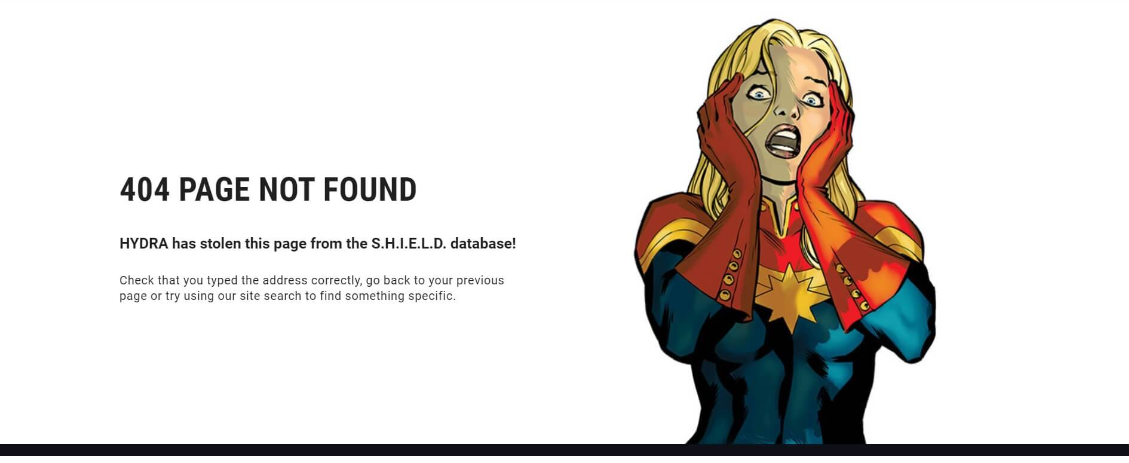
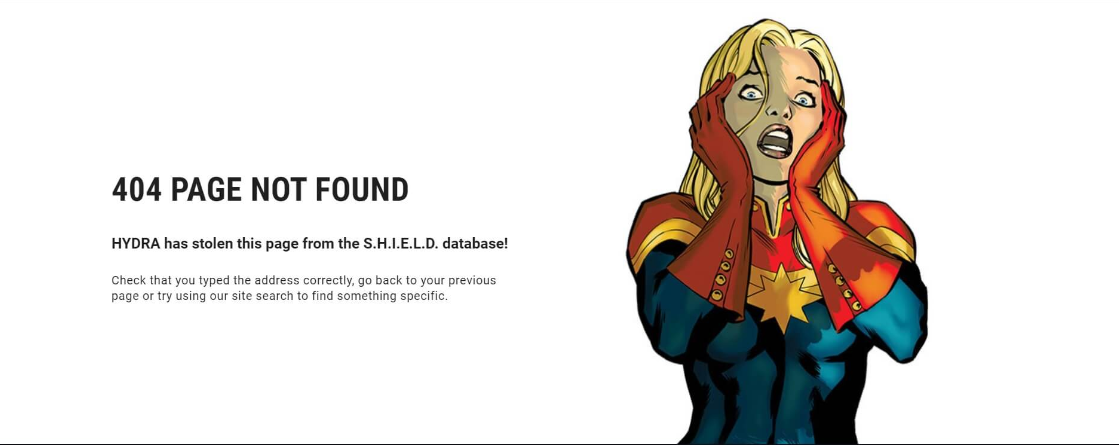
styling completed

Changed region(s): [[0.0, 0.0292, 1.0, 1.0], [0.0912, 0.4966, 0.4558, 0.6719], [0.0912, 0.3798, 0.3646, 0.4674]]

diff --git a/public/stylesheets/style.css b/public/stylesheets/style.css
@@ -23,7 +23,7 @@ html {
 
 body {
   color: #fefefe;
-  font-size: 1.1rem;
+  font-size: 1rem;
   letter-spacing: 1px;
   background-color: #151515;
   position: relative;
@@ -78,9 +78,14 @@ h1 {
   margin-bottom: 1rem;
 }
 h2 {
+  text-align: center;
   font-size: 2rem;
   letter-spacing: 2px;
   margin: 2rem 0;
+}
+
+h3 {
+  font-size: 1.2rem;
 }
 
 ul {
@@ -91,24 +96,65 @@ h1 {
   color: 15px;
 }
 .character-img {
-  height: 250px;
+  width: 300px;
+  border-radius: 10px;
 }
 
-#randomheroes {
+.character-img:hover {
+  transform: scale(1.1);
+  transition: all ease 500ms;
+}
+
+.listheroes {
   display: flex;
   flex-wrap: wrap;
   justify-content: space-between;
   padding-bottom: 2rem;
 }
 
+.superhero {
+  display: flex;
+  flex-direction: column;
+  flex-wrap: wrap;
+  flex-basis: 300px;
+  gap: 1rem;
+  margin-bottom: 2rem;
+}
+
 .input-height {
   padding: 0.4rem;
 }
 
-#searchBtn {
+#search-btn {
   background-color: #151515;
   color: #fefefe;
   font-weight: bold;
   padding: 0.4rem;
   border-radius: 5px;
+}
+
+.add-fav-btn,
+#delete-fav-btn,
+.form-btn {
+  background-color: #ec1d24;
+  color: #fefefe;
+  font-weight: bold;
+  padding: 0.4rem;
+  border-radius: 5px;
+}
+
+.red-entry {
+  color: red;
+  font-weight: bold;
+}
+
+.error-message {
+  font-size: 1.5rem;
+}
+#signup-form,
+#login-form,
+#profile-page,
+#edit-profile-form {
+  text-align: center;
+  line-height: 4;
 }
